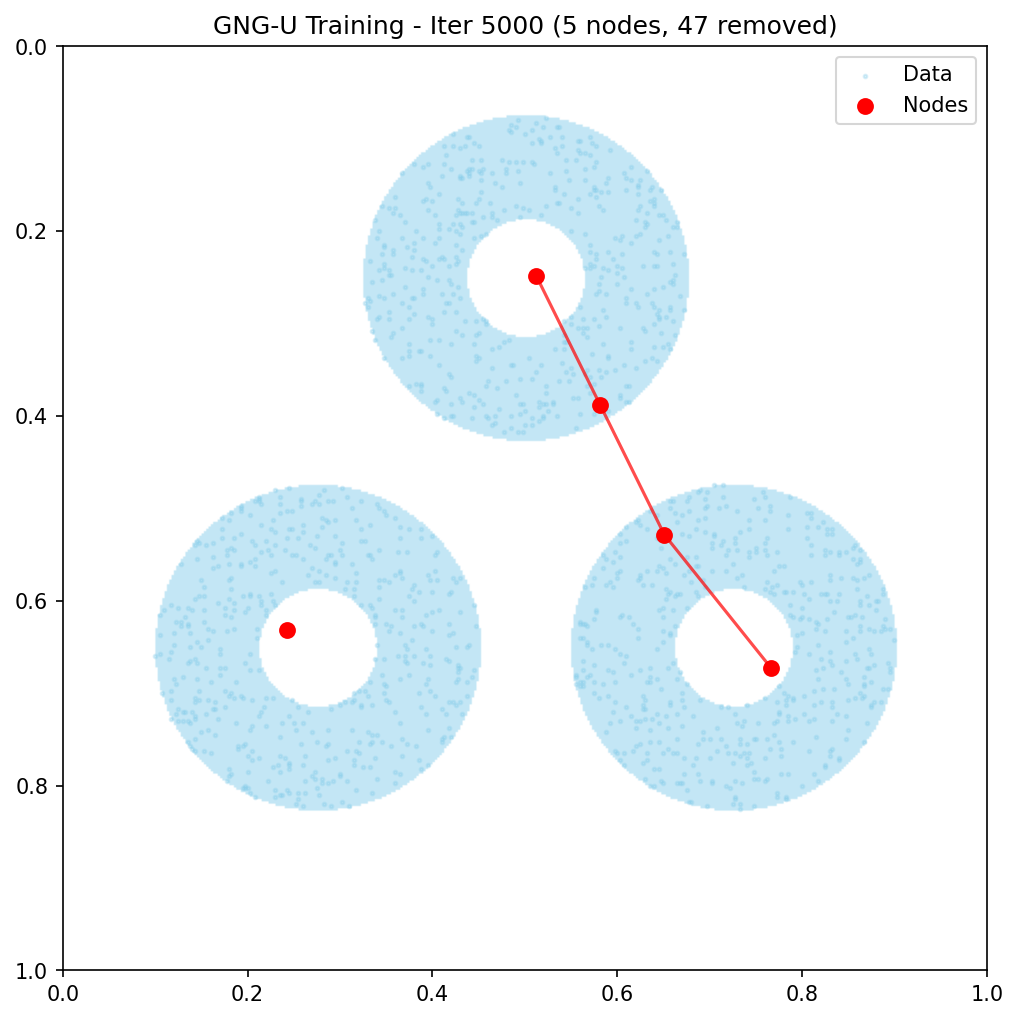
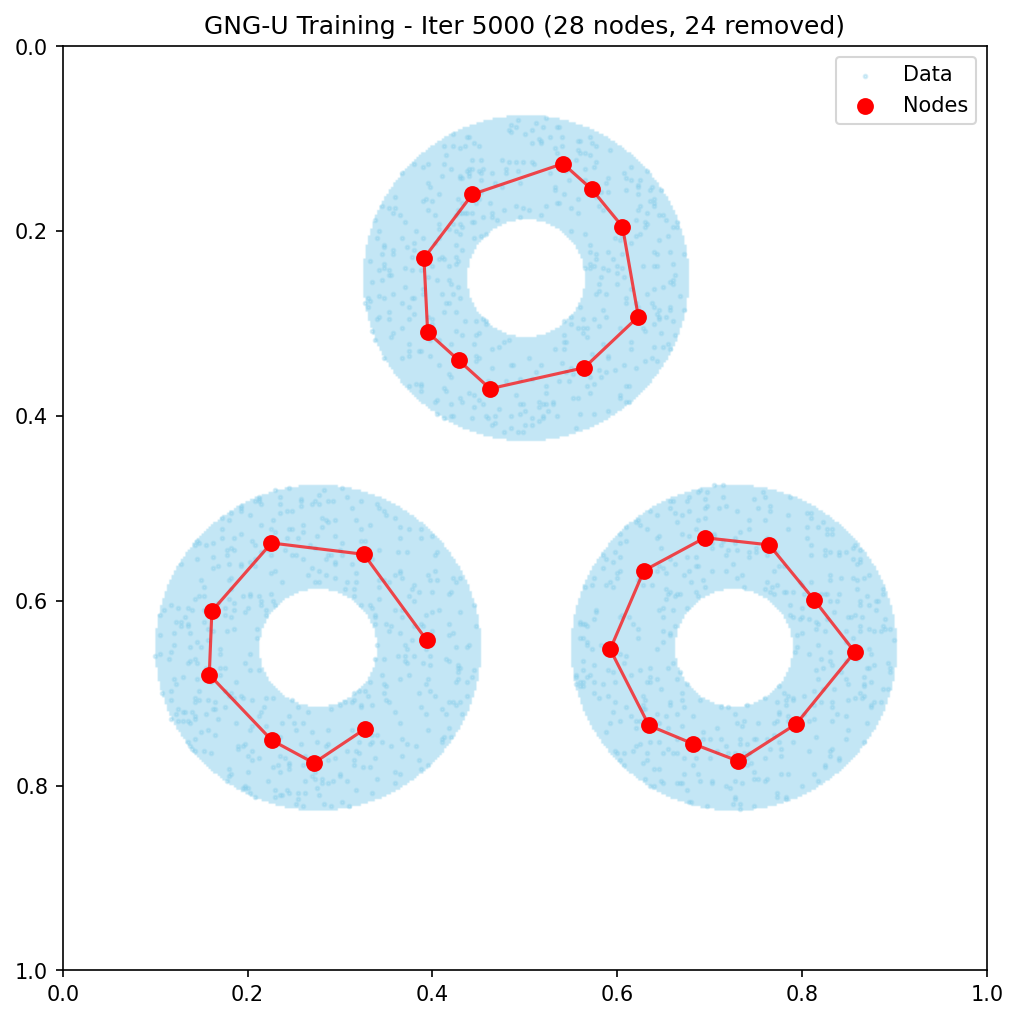
Fix GNG-U utility calculation to use squared distances
demogng.de uses squared distances for both error and utility
calculations. The utility update was incorrectly using Euclidean
distance difference, now correctly uses squared distance difference.

diff --git a/algorithms/gng_u/python/model.py b/algorithms/gng_u/python/model.py
@@ -276,11 +276,10 @@ class GrowingNeuralGasU:
         # Update winner error (squared distance per Fritzke 1995 and demogng.de)
         self.nodes[s1_id].error += dist1_sq
 
-        # GNG-U: Update winner utility (distance difference per demogng.de)
+        # GNG-U: Update winner utility (squared distance difference per demogng.de)
         # Utility represents how much error would increase if this node were removed
-        dist1 = np.sqrt(dist1_sq)
-        dist2 = np.sqrt(dist2_sq)
-        self.nodes[s1_id].utility += dist2 - dist1
+        # Note: demogng.de uses squared distances for both error and utility
+        self.nodes[s1_id].utility += dist2_sq - dist1_sq
 
         # Move winner toward sample
         self.nodes[s1_id].weight += p.eps_b * (sample - self.nodes[s1_id].weight)
